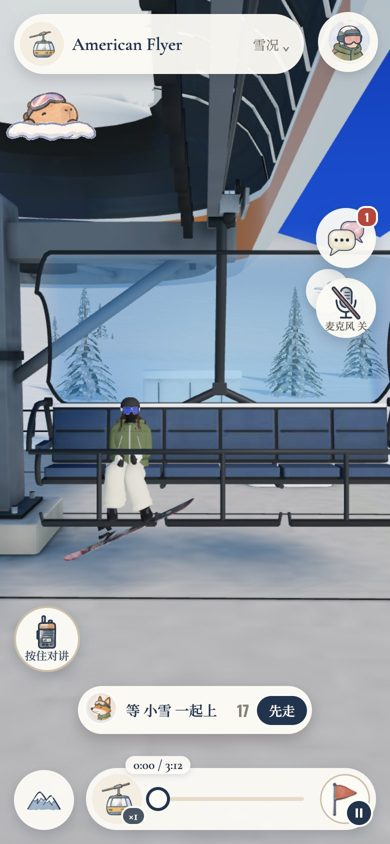
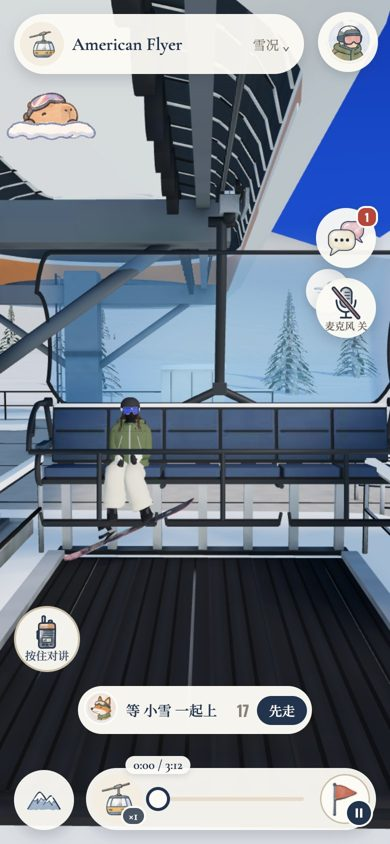
fix(ride): see both riders on a shared chair: front three-quarter view, bubble up, view button; no backwards first frame
- Riding with a friend in my chair the camera watches from in front, three
  quarters on and a little above, so both riders show whole on a portrait phone
  (bubble six-pack and open chairs). A button with our two faces turns it back
  behind the chair (the way up) and round again.
- Bubble chairs: the bubble goes up when someone sits down (it used to come
  down) and my bubble's glass is cleared while sharing, so it doesn't hide us
  from behind either.
- The chair started ~10 m before the loading point: the animation loop's first
  frame time can be earlier than the `last` set after a long load step, giving
  a negative dt that ran the chair backwards. dt is clamped at 0 (ride and
  together). Held chairs now wait at d0 = 14 m as meant.

Claude-Session: https://claude.ai/code/session_01CJTGfgYJtjHZQ6HrRbGZu8

diff --git a/src/ride/together.js b/src/ride/together.js
@@ -4,8 +4,9 @@
 // dressed on the rider page (their look) with a paper name tag; on a lift they sit in a chair. Boarding
 // together: the first of us at a lift holds the chair at the loading point while friends are on their way
 // (the party opening the same lift, following me, or waiting at its bottom; together-core's comingTo,
-// holdLeft), and whoever gets on within the wait sits down in it; the chair swings, the bar comes down, and
-// it goes. Each rider says their seat (k, and when they took it: kt); together-core's chairSeats settles
+// holdLeft), and whoever gets on within the wait sits down in it; the chair swings, a bubble stays up (we see
+// each other), and it goes. Riding together, the camera watches us from in front, three quarters on (our faces
+// button: behind, the way up). Each rider says their seat (k, and when they took it: kt); together-core's chairSeats settles
 // who sits where the same way on every phone, so two riders never share one. Tap the free seat beside you
 // to move over. The painted map shows them; "去找他" flies you over the mountain
 // to land beside them, "跟随" keeps your route on them; quick messages pop over their tags. Voice (voice.js):
@@ -68,7 +69,8 @@ const CSS = `
 #tgHold .faces img { width: 30px; height: 30px; border-radius: 50%; border: 2px solid #fdfbf6; background: #e6ebee; } #tgHold .faces img + img { margin-left: -10px; }
 #tgHold b { font: 600 15px Oswald, sans-serif; color: #8a8278; min-width: 1.6em; text-align: right; }
 #tgHold button { font: inherit; font-size: 13px; color: #fdfbf6; background: #22344d; border: 0; border-radius: 999px; padding: 5px 12px; cursor: pointer; }
-#tgHold[hidden], .tgSeatGo[hidden] { display: none; }
+#tgHold[hidden], .tgSeatGo[hidden], #tgView[hidden] { display: none; }
+#tgView { left: 14px; top: calc(208px + env(safe-area-inset-top)); } #tgView .faces { display: flex; } #tgView .faces img { width: 30px; height: 30px; border-radius: 50%; border: 2px solid #fdfbf6; background: #e6ebee; } #tgView .faces img + img { margin-left: -12px; }
 .tgSeatGo { position: fixed; left: 0; top: 0; z-index: 4; display: flex; align-items: center; gap: 3px; padding: 3px 8px; border-radius: 999px; border: 1.5px dashed #8a8278; background: rgba(253,251,246,.9); color: #22344d; font: 600 12px "Noto Serif SC", serif; white-space: nowrap; cursor: pointer; box-shadow: 0 3px 8px rgba(40,30,20,.18); will-change: transform; }
 .tgSeatGo:active { background: #22344d; color: #fdfbf6; }
 #tgFly { position: fixed; inset: 0; z-index: 30; pointer-events: auto; opacity: 0; transition: opacity .35s; background: radial-gradient(ellipse 70% 58% at 50% 48%, rgba(233,237,242,0) 48%, rgba(233,237,242,.6) 78%, rgba(226,232,238,.96) 100%); }
@@ -260,14 +262,14 @@ export function rideTogether(api) {
     api.d += diff * Math.min(1, dt * 3);
   }
   // The boarding moment: whoever just got on sits down (me: I got into their chair), the chair swings with
-  // the weight, the bar comes down, hello.
+  // the weight, the bubble up, hello.
   let meSitAt = -1e9, swingAt = -1e9, settleUntil = 0;
   function sitTogether(f, mine) {
     const now = performance.now();
     satWith.add(f.id);
     if (mine) meSitAt = now; else f.sitAt = now;
     swingAt = now; settleUntil = now + SETTLE;
-    setTimeout(() => { if (seatInfo().bubble && !top.phase && !api.arrived) api.setBubble(false); }, SIT * 0.8); // the bar comes down once seated
+    if (seatInfo().bubble) api.setBubble(true); // riding with friends the bubble stays up, so we see each other
     setTimeout(() => { gestureBoarder(ctx.rider, "wave"); if (f.model) gestureBoarder(f.model, "wave"); }, SIT + 150); // hello
     const box = document.createElement("div"); box.id = "tgSeat";
     box.innerHTML = `<span class="faces"><img src="assets/icons/${myAvatar()}.png?v=1" alt=""><img src="assets/icons/${f.avatar}.png?v=1" alt=""></span><span translate="no"></span>`;
@@ -281,7 +283,8 @@ export function rideTogether(api) {
   function boarding(now = performance.now()) {
     const ts = (now - swingAt) / 1000, tm = (now - meSitAt) / SIT;
     const swing = ts >= 0 && ts < 4 ? 0.11 * Math.exp(-ts / 1.1) * Math.sin(ts * Math.PI * 2 / 1.7) : 0;
-    return { swing, stand: tm >= 0 && tm < 1 ? 1 - tm : null, face: waiting || now < settleUntil }; // face: worth watching from in front (someone on their way, or getting on)
+    // face: worth watching from in front (someone on their way, getting on, or asked for); with: a friend in my chair
+    return { swing, stand: tm >= 0 && tm < 1 ? 1 - tm : null, face: waiting || now < settleUntil || (shared && !camBack), with: shared };
   }
 
   // ---- Boarding together: the first at the lift waits at the loading point for friends on their way
@@ -328,9 +331,21 @@ export function rideTogether(api) {
     return b;
   });
   const sv = new THREE.Vector3();
+  // Sharing my chair: the ride watches us from in front, three quarters on (it reads boarding()); a button
+  // with our two faces turns the camera back behind the chair, to see the way up, and round again.
+  let shared = false, camBack = false;
+  const viewBtn = document.createElement("button"); viewBtn.id = "tgView"; viewBtn.className = "rfab"; viewBtn.hidden = true; viewBtn.setAttribute("aria-label", t("看我们"));
+  viewBtn.innerHTML = `<span class="faces"><img alt=""><img alt=""></span>`;
+  viewBtn.onclick = (e) => { e.stopPropagation(); camBack = !camBack; viewBtn.classList.toggle("on", !camBack); };
+  viewBtn.addEventListener("pointerdown", (e) => e.stopPropagation());
+  document.body.append(viewBtn);
   function stepSeatGo(now) {
     const seats = !top.phase && !api.arrived && !held && now - meSitAt > SIT ? seatsIn(chairId) : null;
-    const shared = seats && [...seats].some(([id, k]) => id !== me && k >= 0);
+    const mates = seats ? [...seats].filter(([id, k]) => id !== me && k >= 0).map(([id]) => friends.get(id)).filter(Boolean) : [];
+    shared = mates.length > 0;
+    viewBtn.hidden = !shared || !!seatInfo().cabin;
+    viewBtn.classList.toggle("on", shared && !camBack);
+    if (shared) for (const [img, av] of [[viewBtn.querySelectorAll("img")[0], myAvatar()], [viewBtn.querySelectorAll("img")[1], mates[0].avatar]]) if (img.dataset.av !== av) { img.dataset.av = av; img.src = `assets/icons/${av}.png?v=1`; }
     for (const b of seatGo) {
       const k = shared ? seatToward(seats, xsOf().length, seat.k, +b.dataset.dir) : -1;
       b.hidden = k < 0; if (k < 0) continue;
@@ -656,7 +671,7 @@ export function rideTogether(api) {
   // ---- Every frame (called by the ride just before it draws)
   let lastFrame = performance.now();
   function frame(now) {
-    const dt = Math.min(0.1, (now - lastFrame) / 1000); lastFrame = now;
+    const dt = Math.max(0, Math.min(0.1, (now - lastFrame) / 1000)); lastFrame = now;
     stepHold(now);
     send(now);
     if (!friends.size) { voice.frame(now, []); return; }

diff --git a/src/ride/ride.js b/src/ride/ride.js
@@ -2321,7 +2321,7 @@ async function main() {
   for (const [ev, v] of [["pointerdown", true], ["pointerup", false], ["pointerleave", false], ["pointercancel", false]]) fastBtn.addEventListener(ev, (e) => { e.stopPropagation(); fast = v; });
   $("skip").hidden = !TRIP;
   // Skip: the chair speeds up the line and glides into the top station (about two seconds).
-  let skipping = null, faceK = 0; // faceK: the chair camera in front of the chair (1) or behind it (0)
+  let skipping = null, faceK = 0, withK = 0; // the chair camera: in front of the chair (faceK 1) or behind it (0); placed for a friend beside me (withK)
   $("skip").addEventListener("click", () => { if (!skipping && !arrived) skipping = { from: d, t0: performance.now() }; });
   $("again").addEventListener("click", rideAgain);
   // The ride bar: tap the chair for ×1 ×2 ×4, tap the flag to pause, drag the dot to go back or ahead (to the end: the top).
@@ -2376,9 +2376,11 @@ async function main() {
   const together = rideTogether({ scene, camera, renderer, T, R, lift, line, ctx, top, along, resort: RESORT, trip: TRIP, d0, d1,
     get d() { return d; }, set d(v) { d = v; }, get arrived() { return arrived; }, chair: () => myChair, step: () => CHAIR_STEP,
     speed: () => (arrived || paused || params.has("still") ? 0 : SPEED * (fast ? 20 : 3 * rate)),
-    seat: () => ({ xs: SEAT_X, x: MY_SEAT, top: SEAT.top, z: SEAT.z, bubble: HAS_BUBBLE && !CABIN }),
+    seat: () => ({ xs: SEAT_X, x: MY_SEAT, top: SEAT.top, z: SEAT.z, bubble: HAS_BUBBLE && !CABIN, cabin: CABIN }),
     setSeat: (x, snap = false) => { MY_SEAT = x; if (snap) ctx.rider.position.x = x; }, setBubble, offLift, withResort, party }); // not snapped: the rider slides over (below)
   myChair.rotation.order = "YXZ"; // the boarding swing turns about the chair's own cross bar
+  // My bubble's glass, and a clearer copy for riding with a friend (the camera looks through it at us).
+  const glassMats = HAS_BUBBLE && !CABIN && myBubble.children[0]?.material ? [myBubble.children[0].material, Object.assign(myBubble.children[0].material.clone(), { opacity: 0.12, transparent: true })] : null;
   window.__together = together;
   window.__look = { get d() { return d; }, set d(v) { d = v; }, line, look, camera, setBubble, names, renderer, fac: ctx.fac, spec: SPEC, get chair() { return myChair; },
     rider: ctx.rider, talk: (on) => talkBoarder(ctx.rider, on), fall: (heel) => fallBoarder(ctx.rider, heel),
@@ -2387,7 +2389,7 @@ async function main() {
   for (const l of R.lifts) if (!ctx.liftsShown.has(l) && l.pts.some(([x, z]) => line.ground.some((g, i) => i % 3 === 0 && Math.hypot(g.x - x, g.z - z) < 800))) { ctx.liftsShown.add(l); ctx.fac.addOtherLift(l); }
   setTimeout(() => ctx.fac.dressResort().catch((e) => console.warn(e)), 300);
   renderer.setAnimationLoop((now) => {
-    const dt = Math.min(0.05, (now - last) / 1000);
+    const dt = Math.max(0, Math.min(0.05, (now - last) / 1000)); // the first frame's time can be before `last` (set after a long load step): never backwards
     last = now;
     sight.occOn.value = 0; // the trees go see-through only while skiing (stepSki turns it on)
     if (flakes.visible) flakes.userData.step(dt, camera.position);
@@ -2459,11 +2461,16 @@ async function main() {
       const tanH = Math.tan((camera.fov * Math.PI) / 360) * camera.aspect, open = TRIP ? clamp(Math.min(d - d0, d1 - d) / 30, 0, 1) : 1; // 0 in a terminal: close in, under its roof
       const full = clamp((half * 1.12) / tanH, 5.5, 10.5), back = 4.5 + (full - 4.5) * open; // in front of the chair the station is open: always the full view
       const mid = myChair.position.clone().add(new THREE.Vector3(Math.cos(yaw) * cx, SEAT.top + 0.86, -Math.sin(yaw) * cx));
-      const faceTo = !arrived && brd?.face ? 1 : 0;
+      const faceTo = !arrived && brd?.face ? 1 : 0, withTo = !arrived && brd?.with ? 1 : 0;
       faceK += (faceTo - faceK) * Math.min(1, dt * (faceTo ? 2.5 : 0.7));
-      const f = faceK * faceK * (3 - 2 * faceK), rearUp = 1.1 + (back - 4.5) * 0.12; // heads and shoulders over the backrest
-      camera.position.copy(mid).addScaledVector(view.clone().applyAxisAngle(Y, f * Math.PI), -(back + (full * 0.75 - back) * f)).add(new THREE.Vector3(0, rearUp + (0.35 - rearUp) * f, 0));
-      aim.lerp(mid.clone().add(new THREE.Vector3(0, -0.4, 0)), 0.25 + 0.75 * Math.min(1, f * 6)); // the chair a little higher in the frame than the far snow alone would put it; coming round, kept in view
+      withK += (withTo - withK) * Math.min(1, dt * 1.2);
+      // A friend in my chair: the front view (together.js picks it by default then; our faces button turns
+      // back) is three quarters on and a little above, so both of us show whole on a portrait phone; the
+      // raised bubble's glass is cleared so it doesn't hide us from behind.
+      const f = faceK * faceK * (3 - 2 * faceK), w = withK * open, rearUp = 1.1 + (back - 4.5) * 0.12; // heads and shoulders over the backrest
+      camera.position.copy(mid).addScaledVector(view.clone().applyAxisAngle(Y, f * (Math.PI - 0.6 * w)), -(back + (full * (0.75 + 0.2 * w) - back) * f)).add(new THREE.Vector3(0, rearUp + (0.35 + 1.3 * w - rearUp) * f, 0));
+      aim.lerp(mid.clone().add(new THREE.Vector3(0, -0.4 - 0.2 * w, 0)), 0.25 + 0.75 * Math.min(1, f * 6)); // the chair a little higher in the frame than the far snow alone would put it; coming round, kept in view
+      if (glassMats) myBubble.children[0].material = glassMats[w > 0.05 ? 1 : 0];
     }
     camera.lookAt(aim);
     sun.position.copy(head).addScaledVector(sun.userData.dir, 400);

diff --git a/src/core/i18n.js b/src/core/i18n.js
@@ -130,7 +130,7 @@ const EN = {
   "等我": "Wait for me", "缆车站见": "Meet at the lift", "这条好滑": "This run's great", "我先下去了": "Heading down", "去找你": "Coming to you",
   "{lift} 缆车上": "on {lift}", "{lift} 山顶": "top of {lift}", "在山顶": "at the top", "徒步上山": "hiking up", "在 {lift} 底站": "at the {lift} lift", "在 {run}": "on {run}",
   "和 {name} 一起坐 {lift}": "Riding {lift} with {name}", "和 {name} 一起坐 {lift} ›": "Ride {lift} with {name} ›", "{name} 坐上了 {lift}": "{name} got on {lift}",
-  "等 {name} 一起上": "Waiting for {name}", "先走": "Go now", "坐这": "Sit here", "{name} 在 {lift} 等你一起坐": "{name} is holding a chair on {lift} for you",
+  "等 {name} 一起上": "Waiting for {name}", "看我们": "See us", "先走": "Go now", "坐这": "Sit here", "{name} 在 {lift} 等你一起坐": "{name} is holding a chair on {lift} for you",
   "坐 {name} 后面那把": "In the chair behind {name}", "跟着 {name}": "Following {name}", "去找 {name}…": "Off to {name}…", "到 {name} 身边了": "Here with {name}",
   "已发送：{msg}": "Sent: {msg}", "{name} 也在山上": "{name} is on the mountain too", "{name} 不在线了，不跟了": "{name} went offline: stopped following",
   "滑起来就跟着 {name} 走": "Once you ski, you'll follow {name}", "{name} 在 {lift} 上，去底站": "{name} is on {lift}: to its bottom station", "跟着 {name}，重新规划": "Following {name}: route updated",
